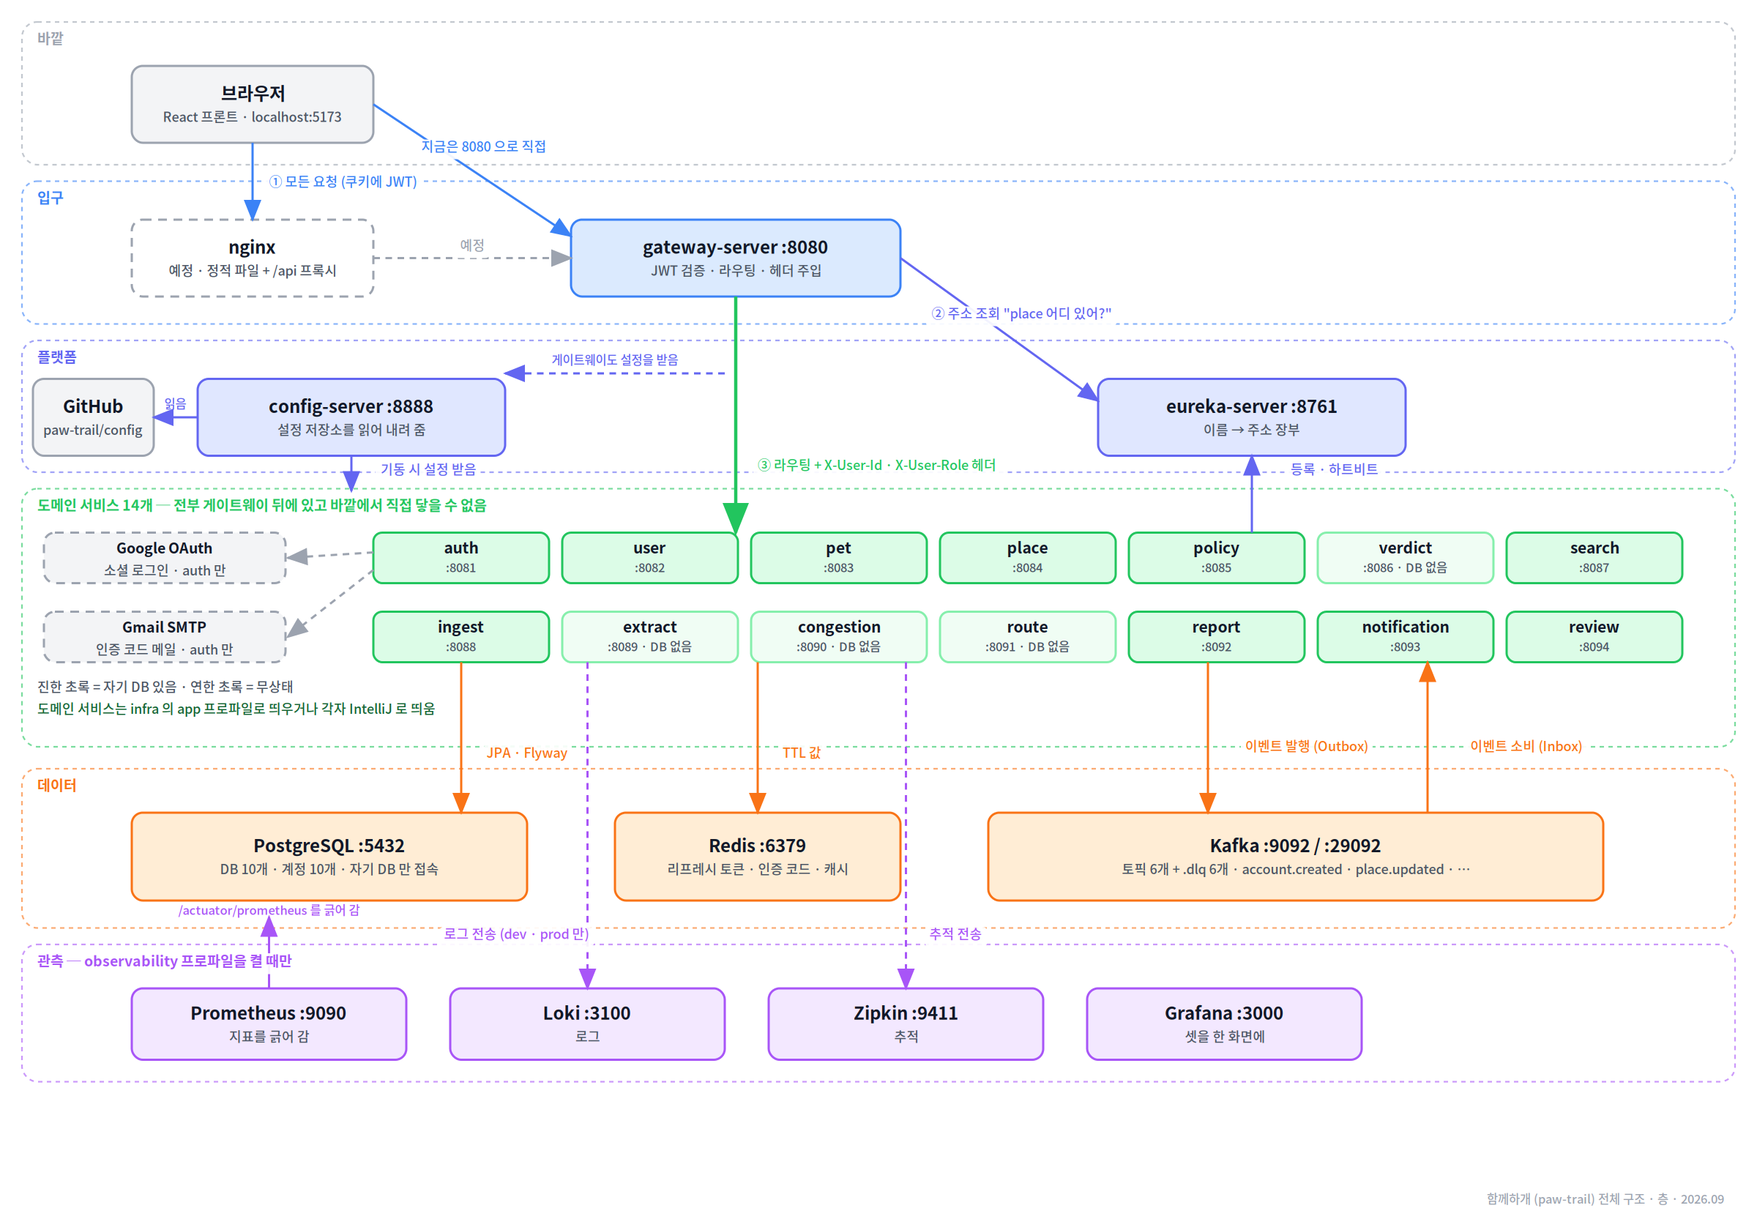
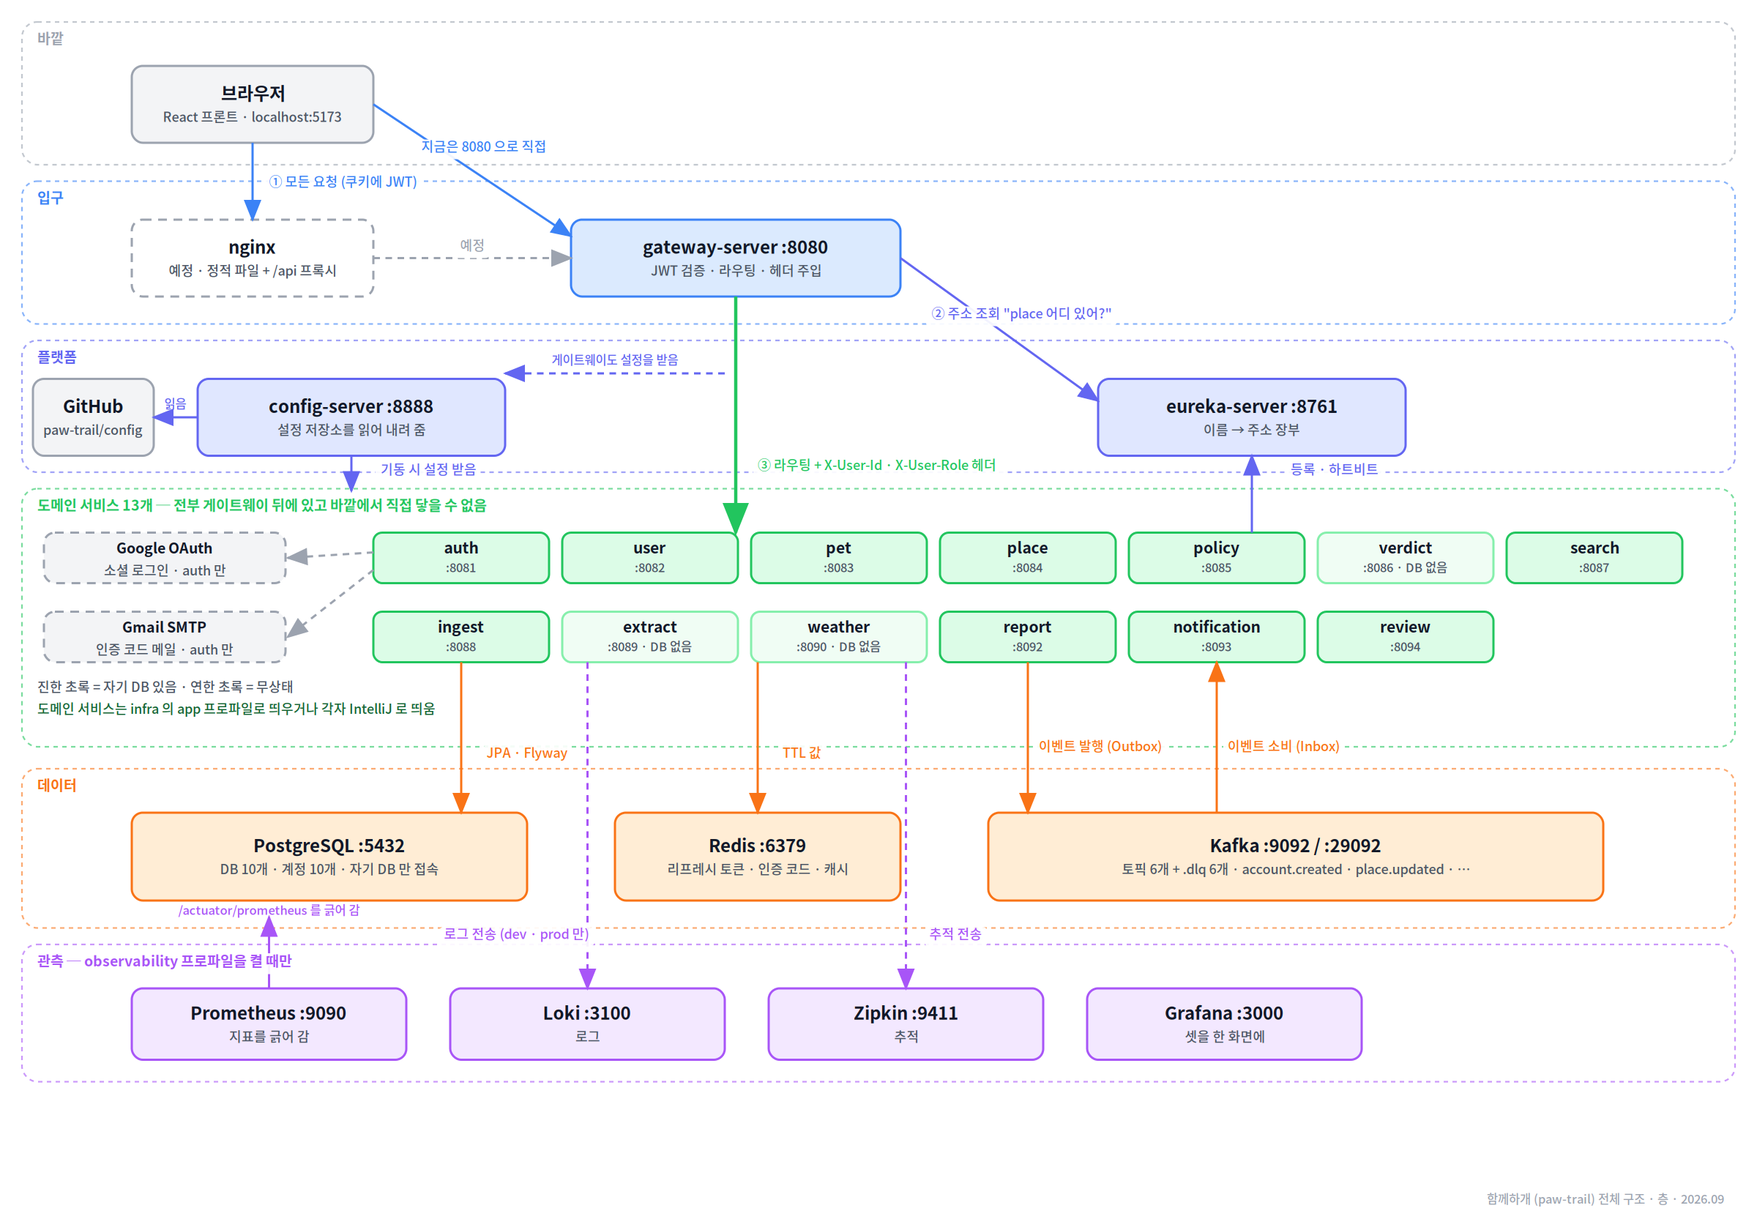
docs: rename congestion to weather, remove route and draw the weather focus diagram in the scripts

diff --git a/docs/architecture-layers.py b/docs/architecture-layers.py
@@ -31,7 +31,7 @@ def band(y,h,label,color):
 colors=["#374151","#3B82F6","#6366F1","#22C55E","#F97316","#A855F7","#9CA3AF"]
 defs="".join(f'<marker id="ah-{c[1:]}" markerWidth="10" markerHeight="8" refX="9" refY="4" orient="auto"><path d="M0,0 L10,4 L0,8 z" fill="{c}"/></marker>' for c in colors)
 band(20,130,"바깥","#9CA3AF"); band(165,130,"입구","#3B82F6"); band(310,120,"플랫폼","#6366F1")
-band(445,235,"도메인 서비스 14개  ─  전부 게이트웨이 뒤에 있고 바깥에서 직접 닿을 수 없음","#22C55E")
+band(445,235,"도메인 서비스 13개  ─  전부 게이트웨이 뒤에 있고 바깥에서 직접 닿을 수 없음","#22C55E")
 band(700,145,"데이터","#F97316"); band(860,125,"관측  ─  observability 프로파일을 켤 때만","#A855F7")
 box(120,60,220,70,"ext","브라우저","React 프론트 · localhost:5173")
 box(120,200,220,70,"fut","nginx","예정 · 정적 파일 + /api 프록시",dash=True)
@@ -40,7 +40,7 @@ box(30,345,110,70,"ext","GitHub","paw-trail/config")
 box(180,345,280,70,"plat","config-server  :8888","설정 저장소를 읽어 내려 줌")
 box(1000,345,280,70,"plat","eureka-server  :8761","이름 → 주소 장부")
 dom=[("auth",8081,True),("user",8082,True),("pet",8083,True),("place",8084,True),("policy",8085,True),("verdict",8086,False),("search",8087,True),
-     ("ingest",8088,True),("extract",8089,False),("congestion",8090,False),("route",8091,False),("report",8092,True),("notification",8093,True),("review",8094,True)]
+     ("ingest",8088,True),("extract",8089,False),("weather",8090,False),("report",8092,True),("notification",8093,True),("review",8094,True)]
 gx,gy,gw,gh,gap=340,485,160,46,12; pos={}
 for i,(n,p,db) in enumerate(dom):
     r,c=divmod(i,7); x=gx+c*(gw+gap); y=gy+r*(gh+gap+14); pos[n]=(x,y)
@@ -67,7 +67,7 @@ arrow(1140,485,1140,415,"#6366F1","등록 · 하트비트",lx=1215,ly=432)
 arrow(660,340,460,340,"#6366F1",dash=True); text(560,332,"게이트웨이도 설정을 받음",11,fill="#6366F1")
 gb=603
 arrow(420,gb,420,740,"#F97316","JPA · Flyway",lx=480,ly=690); arrow(690,gb,690,740,"#F97316","TTL 값",lx=730,ly=690)
-arrow(1100,gb,1100,740,"#F97316","이벤트 발행 (Outbox)",lx=1190,ly=684); arrow(1300,740,1300,gb,"#F97316","이벤트 소비 (Inbox)",lx=1390,ly=684)
+arrow(936,gb,936,740,"#F97316","이벤트 발행 (Outbox)",lx=946,ly=684,anchor="start"); arrow(1108,740,1108,gb,"#F97316","이벤트 소비 (Inbox)",lx=1118,ly=684,anchor="start")
 arrow(245,900,245,835,"#A855F7"); text(245,833,"/actuator/prometheus 를 긁어 감",11,fill="#A855F7")
 arrow(535,gb,535,900,"#A855F7","로그 전송 (dev · prod 만)",lx=470,ly=855,dash=True); arrow(825,gb,825,900,"#A855F7","추적 전송",lx=870,ly=855,dash=True)
 svg=f'''<svg xmlns="http://www.w3.org/2000/svg" width="{W}" height="{H}" viewBox="0 0 {W} {H}" font-family="{FONT}">

diff --git a/README.md b/README.md
@@ -3,8 +3,8 @@
 **함께하개**는 반려동물과 함께 갈 수 있는 장소를 찾고, 우리 아이가 그곳에
 들어갈 수 있는지 판정해 주는 서비스입니다.
 
-백엔드는 **작은 서버 14개**로 나뉘어 있고, 각각이 **별도의 GitHub 저장소**입니다.
-이 저장소는 그 14개를 만들 때 **복제해서 시작하는 틀**입니다.
+백엔드는 **작은 서버 13개**로 나뉘어 있고, 각각이 **별도의 GitHub 저장소**입니다.
+이 저장소는 그 13개를 만들 때 **복제해서 시작하는 틀**입니다.
 
 ---
 
@@ -33,16 +33,16 @@ paw-trail (GitHub 조직)
 │
 ├── service-template        이 저장소. 도메인 서비스를 만들 때 복제함
 │
-├── 도메인 서비스 14개         auth · user · pet · place · policy · search
+├── 도메인 서비스 13개         auth · user · pet · place · policy · search
 │                           ingest · extract · report · review · notification
-│                           verdict · congestion · route
+│                           verdict · weather
 │                           → 전부 service-template 을 복제해서 만듦
 │
 ├── 플랫폼 3개               gateway-server   요청을 받아 어느 서비스로 보낼지 정함
 │                           eureka-server    어느 서비스가 어디 떠 있는지 알고 있음
 │                           config-server    설정 파일을 서비스들에게 내려 줌
 │
-├── common                  14개가 함께 쓰는 자바 라이브러리 (jar 로 배포)
+├── common                  13개가 함께 쓰는 자바 라이브러리 (jar 로 배포)
 ├── config                  설정 파일 저장소 (포트 · DB 주소 · 라우트)
 └── infra                   Docker Compose (Kafka · Redis · PostgreSQL · 관측)
 ```
@@ -1106,7 +1106,7 @@ serviceName: 'place'          →  ghcr.io/paw-trail/place 로 올림
 | 노드 | 서비스 | 성격 |
 |---|---|---|
 | `core` | verdict ×3 · search ×2 · place · policy | 핫패스. 스케일아웃 대상 |
-| `app` | auth · user · pet · report · notification · congestion · route | 콜드패스. 1개씩 |
+| `app` | auth · user · pet · report · review · notification · weather | 콜드패스. 1개씩 |
 | `edge` | nginx · gateway · eureka · config | 진입점과 플랫폼 |
 
 도메인이 비슷한 것끼리 묶지 않는 이유는, **부하가 그 배치를 따라가지 않아
@@ -1167,7 +1167,7 @@ docker compose up -d
 ````
 
 > **지침을 남겨 두지 않습니다.** 서비스마다 같은 분량이 복사되면
-> 한 곳을 고칠 때 14곳을 고쳐야 합니다. 공통 지침은 `service-template` 하나만
+> 한 곳을 고칠 때 13곳을 고쳐야 합니다. 공통 지침은 `service-template` 하나만
 > 유지하고 서비스 README 는 **그 서비스만의 것**을 적습니다.
 
 > ⚠**위는 최소 형태이고 실제로는 더 길어졌습니다.**
@@ -1206,7 +1206,7 @@ docker compose up -d
 
 | 그림 | 어디 것 | 왜 |
 |---|---|---|
-| ① · ② | **`service-template` 의 raw 주소** | 전체 구조는 서비스가 늘 때마다 바뀝니다. 사본을 두면 14곳이 서로 다른 시점을 보여 줍니다 |
+| ① · ② | **`service-template` 의 raw 주소** | 전체 구조는 서비스가 늘 때마다 바뀝니다. 사본을 두면 13곳이 서로 다른 시점을 보여 줍니다 |
 | ③ | **자기 저장소의 `docs/`** | 그 레포에만 해당하는 그림이라 함께 커밋합니다 |
 
 > **①②를 자기 저장소로 복사하지 않습니다.** 주소를 그대로 쓰면 원본을 고칠 때
@@ -1385,7 +1385,7 @@ auto_review:
 
 ### 1-5. DB 를 사용하지 않는 서비스라면
 
-`verdict` · `congestion` · `route` · `extract` 처럼 데이터베이스가 없는 서비스는
+`verdict` · `weather` · `extract` 처럼 데이터베이스가 없는 서비스는
 **다섯 군데를 지워야 합니다.**
 
 > **한 곳만 고치면 컴파일이나 기동이 실패합니다.** 아래 순서대로 함께 처리합니다.
@@ -1397,6 +1397,13 @@ auto_review:
 Spring Batch 를 쓰지 않기로 정해 실행 이력 표가 필요 없습니다.
 어디까지 처리했는지는 `ingest` 가 가진 원문의 상태가 맡습니다.
 이벤트를 내지 않고 캐시도 쓰지 않아 Kafka · Redis 의존성도 함께 지웁니다.
+
+---
+
+**`weather` 는 Redis 의존성을 남깁니다.**
+
+예보를 격자와 발표 시각으로 Redis 에 담아 두고, 새 발표를 못 받으면 직전 발표를 꺼내 씁니다.
+이벤트는 내지도 받지도 않아 Kafka 의존성은 지웁니다. 바깥 호출을 감싸는 회로 차단기 스타터도 남깁니다.
 
 ---
 
@@ -2046,7 +2053,7 @@ spring:
 
 **`/api/v1/places/` 아래에는 `/**` 를 쓰지 않습니다.**
 
-이 접두사 아래에 서비스 6개가 섞여 있습니다. 장소 상세 화면에서 브라우저가
+이 접두사 아래에 서비스 4개가 섞여 있습니다. 장소 상세 화면에서 브라우저가
 여러 개를 한꺼번에 부르기 때문이며, **경로는 장소를 중심으로 짜여 있고
 소유 서비스는 갈려 있습니다.**
 
@@ -2057,9 +2064,10 @@ spring:
 | `/api/v1/places/{placeId}/verdict` | verdict |
 | `/api/v1/places/{placeId}/reviews` | review |
 | `/api/v1/places/{placeId}/conflicts` | policy |
-| `/api/v1/places/{placeId}/congestion` | congestion |
 
-여기에 `Path=/api/v1/places/**` 를 쓰면 **하위 경로를 모두 먹어 나머지 다섯으로
+> 날씨는 `/api/v1/weather?lat=&lon=` 으로 따로 부르므로 이 겹침과 무관합니다.
+
+여기에 `Path=/api/v1/places/**` 를 쓰면 **하위 경로를 모두 먹어 다른 서비스로
 갈 요청이 전부 첫 라우트로 갑니다.** 게이트웨이는 처음 맞는 라우트에서 멈추기
 때문입니다.
 
@@ -3013,7 +3021,7 @@ Settings → Editor → File Encodings
 
 | | 무엇이 문제인가 |
 |---|---|
-| 메모리 | 컨테이너 하나가 640MB 안팎이라 14개를 다 올릴 수 없습니다 |
+| 메모리 | 컨테이너 하나가 640MB 안팎이라 13개를 다 올릴 수 없습니다 |
 | 개발 속도 | 코드를 고칠 때마다 이미지를 다시 만들어야 합니다 |
 
 > 개발이 끝난 서비스는 이미지로 구워 컨테이너로 돌립니다.
@@ -3449,8 +3457,8 @@ FATAL: password authentication failed for user "place_svc"
 | 서비스 | 포트 | | 서비스 | 포트 |
 |---|---|---|---|---|
 | auth | 8081 | | extract | 8089 |
-| user | 8082 | | congestion | 8090 |
-| pet | 8083 | | route | 8091 |
+| user | 8082 | | weather | 8090 |
+| pet | 8083 | | (비움) | 8091 |
 | place | 8084 | | report | 8092 |
 | policy | 8085 | | notification | 8093 |
 | verdict | 8086 | | review | 8094 |
@@ -3647,7 +3655,7 @@ spring.config.import 에 optional: 이 붙어 있음
 기본값은 `postgres:17-alpine` 입니다. arm64 를 지원해 Apple Silicon 에서
 에뮬레이션 없이 돕니다.
 
-**`search` · `route` · `place` 는 PostGIS 가 필요합니다.**
+**`search` · `place` 는 PostGIS 가 필요합니다.**
 
 ```java
 // before
@@ -4747,7 +4755,7 @@ v0.2.0    기능이 늘어남
 **저장소에 Jenkinsfile 이 있는 이유**
 
 파이프라인을 저장소 안에 두면 **코드와 배포 방식이 같은 커밋에 담깁니다.**
-서비스가 14개라 Jenkins 화면에서 각각 설정하면 관리가 안 됩니다.
+서비스가 13개라 Jenkins 화면에서 각각 설정하면 관리가 안 됩니다.
 
 ---
 
@@ -4758,7 +4766,7 @@ EC2 를 셋으로 나눕니다. **기준은 부하의 성격입니다.**
 | 노드 | 올라가는 것 | 성격 |
 |---|---|---|
 | `core` | verdict ×3 · search ×2 · place · policy | 핫패스. 스케일아웃 대상 |
-| `app` | auth · user · pet · report · notification · congestion · route | 콜드패스. 1개씩 |
+| `app` | auth · user · pet · report · review · notification · weather | 콜드패스. 1개씩 |
 | `edge` | nginx · gateway · eureka · config | 진입점과 플랫폼 |
 
 ```groovy
@@ -6615,7 +6623,7 @@ account.withdrawn 을 받았는데 프로필이 없으면
 
 > **②의 문턱이 생각보다 높습니다.** S3 presigned URL 발급은 3개 서비스가,
 > 커밋 뒤 실행기(`AfterCommitExecutor`)는 4개 서비스가 쓰는데 **둘 다 각자
-> 만드는 쪽으로 정했습니다.** 중복 3~4곳을 감수하는 편이 17개가 함께 지고
+> 만드는 쪽으로 정했습니다.** 중복 3~4곳을 감수하는 편이 13개가 함께 지고
 > 가는 것보다 싸다고 봤습니다.
 
 ---
@@ -6641,7 +6649,7 @@ account.withdrawn 을 받았는데 프로필이 없으면
 `AuthService` 안의 private 메서드였는데 비밀번호 재설정도 같은 것이 필요해져
 **2곳이 되자 클래스로 꺼냈습니다.**
 
-**미리 올려 두지 않는 이유는 근거가 예측이기 때문입니다.** 안 쓰게 되면 17개가
+**미리 올려 두지 않는 이유는 근거가 예측이기 때문입니다.** 안 쓰게 되면 13개가
 지고 가는 빈이 하나 늘어나고, 그것을 되돌리려면 다시 재배포와 전 서비스
 버전업이 붙습니다.
 
@@ -7179,7 +7187,7 @@ XxxJpaRepository     그 구현이 쓰는 부품
 | `repository/PlaceRepository` | `persistence/PlaceRepositoryImpl` |
 | `repository/PlaceCacheStore` | `persistence/PlaceCacheStoreImpl` |
 | `provider/PolicyProvider` | `provider/internal/PolicyProviderImpl` |
-| `provider/KakaoMapProvider` | `provider/external/KakaoMapProviderImpl` |
+| `provider/LlmProvider` | `provider/external/LlmProviderImpl` |
 | `event/PlaceEventProducer` | `message/kafka/producer/PlaceEventProducerImpl` |
 
 ---
@@ -7737,9 +7745,9 @@ petEventProducer.profileUpdated(pet, changed);
 domain/provider/PetProvider.java                       약속
 domain/provider/dto/PetData.java                       받아올 데이터의 모양
 
-infrastructure/provider/internal/PetProviderImpl.java        우리 서비스를 부를 때
-infrastructure/provider/external/KakaoMapProviderImpl.java   바깥 시스템을 부를 때
-infrastructure/provider/external/dto/KakaoRouteResponse.java 그쪽이 보내는 형태
+infrastructure/provider/internal/PetProviderImpl.java             우리 서비스를 부를 때
+infrastructure/provider/external/KmaForecastProviderImpl.java     바깥 시스템을 부를 때 (weather)
+infrastructure/provider/external/KmaResponseParser.java           그쪽 형태를 우리 형태로
 ```
 
 > **아래 예시는 `user` 가 `pet` 을 부르는 실물입니다.** 대표 반려동물을 지정하기 전에
@@ -7837,7 +7845,7 @@ public class PetProviderImpl implements PetProvider {
 
 | | `internalRestClientBuilder` | `externalRestClientBuilder` |
 |---|---|---|
-| 부르는 곳 | 우리 서비스 | 카카오맵 · 기상청 · 관광공사 |
+| 부르는 곳 | 우리 서비스 | 기상청 · 관광공사 · LLM |
 | 주소 | `lb://pet-service` | `https://apis.data.go.kr` |
 | 주소를 푸는 것 | 유레카 | 설정에 박힌 고정 주소 |
 | 인증 헤더 | `X-User-Id` · `X-User-Role` 을 실음 | **싣지 않음** |
@@ -7891,41 +7899,47 @@ public class PetProviderImpl implements PetProvider {
 
 ---
 
-**바깥 시스템을 부르는 구현입니다.**
+**바깥 시스템을 부르는 구현입니다.** `weather` 가 기상청 단기예보를 부르는 실물입니다.
 
 ```java
-// infrastructure/provider/external/dto/KakaoRouteResponse.java
-package com.pawtrail.route.infrastructure.provider.external.dto;
-
-import com.fasterxml.jackson.annotation.JsonIgnoreProperties;
-import java.util.List;
-
-// 그쪽 규격이라 우리가 정하지 않음
-// 필요한 칸만 받고 나머지는 무시함
-@JsonIgnoreProperties(ignoreUnknown = true)
-public record KakaoRouteResponse(List<Route> routes) {
-
-    @JsonIgnoreProperties(ignoreUnknown = true)
-    public record Route(Summary summary) { }
-
-    @JsonIgnoreProperties(ignoreUnknown = true)
-    public record Summary(int distance, int duration) { }
-}
-```
-
-**이 형태를 그대로 위로 올리지 않습니다.** `domain/provider` 의 약속이 정한
-모양으로 바꿔서 넘깁니다.
-
-```java
+// infrastructure/provider/external/KmaForecastProviderImpl.java
 @Override
-public RouteData findRoute(Coordinate from, Coordinate to) {
-    KakaoRouteResponse response = restClient.get()...;
-
-    // 그쪽 형태 → 우리 형태
-    var summary = response.routes().getFirst().summary();
-    return new RouteData(summary.distance(), summary.duration());
+public Optional<ForecastRun> fetch(Grid grid, LocalDateTime baseAt) {
+    // 부르고 · 읽고 · 우리 형태로 바꾸는 일은 fetchWithRetry 안에서 함
+    // 차단기가 열려 있으면 기상청을 부르지 않고 바로 실패로 넘어감
+    return circuitBreakerFactory.create(CIRCUIT_BREAKER_ID).run(
+            () -> fetchWithRetry(grid, baseAt),
+            failure -> {
+                throw new ForecastUnavailableException(reason(failure), failure);
+            });
 }
 ```
+
+**그쪽 형태를 그대로 위로 올리지 않습니다.** `domain/provider` 의 약속이 정한
+모양(`ForecastRun`)으로 바꿔서 넘깁니다. 아래는 그 자리의 요지입니다.
+
+```java
+// infrastructure/provider/external/KmaResponseParser.java
+// 그쪽 규격이라 우리가 정하지 않음 — 한 줄에 한 칸씩 옴 (category · fcstDate · fcstTime · fcstValue)
+// 필요한 칸(TMP · SKY · PTY · POP)만 시각별로 모으고 나머지(풍속 · 습도 등)는 버림
+for (JsonNode item : items) {
+    LocalDateTime at = LocalDateTime.parse(item.path("fcstDate").asText() + item.path("fcstTime").asText(), DATE_TIME);
+    byTime.computeIfAbsent(at, k -> new LinkedHashMap<>())
+            .put(item.path("category").asText(), item.path("fcstValue").asText());
+}
+
+// 그쪽 형태 → 우리 형태 (domain/model/HourlyForecast)
+hours.add(new HourlyForecast(
+        entry.getKey(),
+        tmp,
+        sky == null ? null : SkyCondition.fromCode(sky),
+        pty == null ? null : PrecipitationType.fromCode(pty),
+        pop));
+```
+
+> 이 응답은 칸마다 한 줄씩 오는 모양이라 레코드로 받지 않고 `JsonNode` 로 읽어 시각별로 모읍니다.
+> 칸이 적고 모양이 고정된 응답이면 `@JsonIgnoreProperties(ignoreUnknown = true)` 를 단 레코드로
+> 받는 편이 짧습니다.
 
 <br><br>
 
@@ -7980,11 +7994,11 @@ PlaceService.create()  ──▶  [ 프록시 ]  ──▶  PlaceLogService.save
 
 ### 8-8. DB 가 없는 서비스 (verdict)
 
-`verdict` · `congestion` · `route` 가 여기 해당합니다.
+`verdict` · `weather` · `extract` 가 여기 해당합니다.
 **위 구조에서 저장 관련 계층이 통째로 빠집니다.**
 
-> `route` 가 여기 들어온 것은 나중입니다. 동물병원이 `place` 로 편입되면서
-> 소유하던 DB 가 사라졌고 **남은 일이 카카오맵 경로 계산뿐이 되었습니다.**
+> `weather` 는 DB 는 없지만 예보를 Redis 에 담아 두므로 `domain/repository` 와
+> `infrastructure/persistence` 에 캐시 저장소 하나가 남습니다.
 
 ---
 
@@ -8085,7 +8099,7 @@ public record Reason(String axis, String detail, String source) { }
 
 ## 9. 서비스별 형태 분류
 
-도메인 서비스는 **14개**입니다. 플랫폼 3개를 합쳐 17개입니다.
+도메인 서비스는 **13개**입니다. 플랫폼 3개를 합쳐 16개입니다.
 
 <br><br>
 
@@ -8106,8 +8120,7 @@ public record Reason(String axis, String detail, String source) { }
 | | review | `review_db` (방문 후기) |
 | | notification | `notif_db` |
 | **DB 없음** | verdict | 무상태 순수 계산 |
-| | congestion | Redis 캐시만 씁니다 |
-| | route | 카카오맵 경로 계산만 합니다 |
+| | weather | 기상청 단기예보를 격자와 발표 시각으로 Redis 에 캐시합니다 |
 | | extract | `ingest` 의 원문을 `/internal` 로 받아 조건을 뽑고 `policy` 로 넘깁니다. 어디까지 했는지는 원문의 상태가 맡습니다 |
 | **다른 형태** | gateway · config · eureka | 도메인 서비스가 아니라 4계층 구조를 따르지 않습니다 |
 
@@ -8139,13 +8152,13 @@ user_db   ←  user_svc 만 접속
 
 ---
 
-**route 에 DB 가 없는 이유입니다.**
+**weather 에 DB 가 없는 이유입니다.**
 
-동물병원이 `place` 로 편입되어 `vet_db` 가 사라졌습니다.
-남은 일은 카카오맵 경로 계산뿐입니다.
+예보의 원본은 기상청이 가지고 있고 이 서비스는 받은 발표를 잠시 캐시에 둘 뿐입니다.
+발표가 3시간마다 바뀌므로 오래 담아 둘 표가 없습니다.
 
-> **congestion 과 합치지는 않습니다.** 합치면 **카카오맵 장애가 집중률까지
-> 끊습니다.**
+> **route 는 없앴습니다.** 경로 안내가 프론트의 카카오맵 웹 링크로 옮겨 가
+> 서버에서 부를 곳이 사라졌습니다.
 
 <br><br>
 
@@ -8170,7 +8183,7 @@ user_db   ←  user_svc 만 접속
 | search | — | `place.updated` |
 | notification | — | `policy.changed` · `report.resolved` · `account.withdrawn` |
 | verdict | — | `policy.changed` · `pet.profile.updated` (inbox 미사용) |
-| ingest · extract · congestion · route | — | — |
+| ingest · extract · weather | — | — |
 
 ---
 
